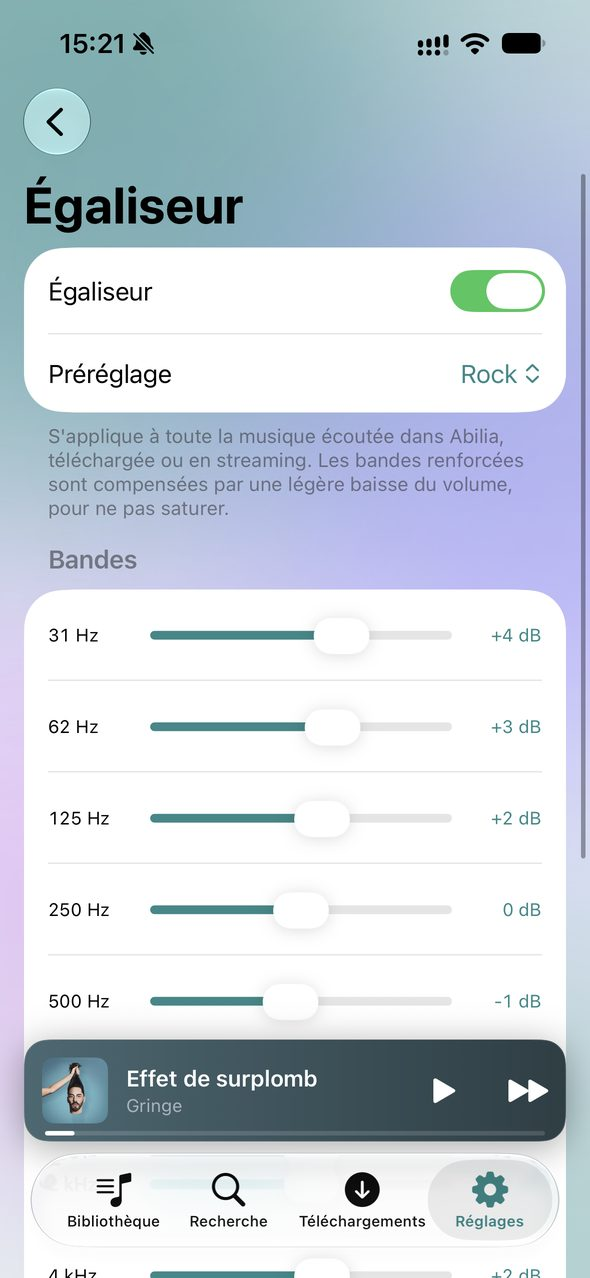
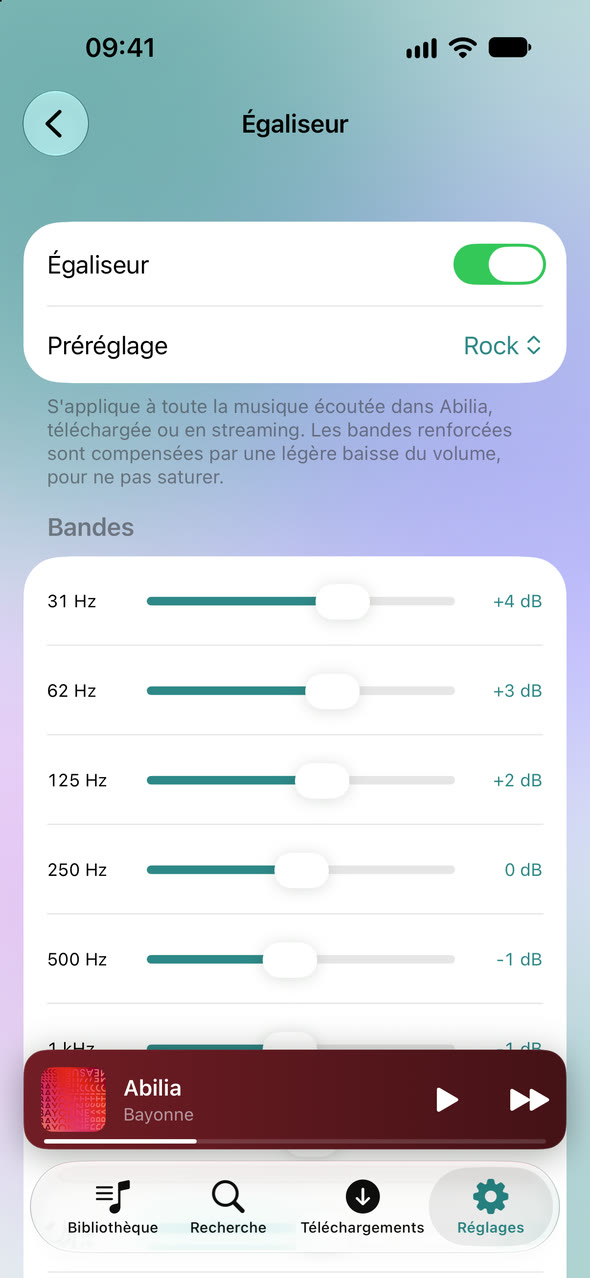
feat: captures de l'app en anglais sur la page anglaise
L'app est traduite : la page /en/ montre désormais les captures
anglaises (src/assets/screenshots/en/), la page française de nouvelles
captures françaises prises sur la même bibliothèque. Les sections les
prennent par screenshots(lang) ; APP_LANGUAGES contient 'en', donc la
mention « l'app est en français » disparaît de la page anglaise, comme
de la note de la politique de confidentialité. Le spectre animé du hero
est recalé sur la nouvelle capture En lecture (même mise en page dans
les deux langues).

diff --git a/src/i18n/ui.ts b/src/i18n/ui.ts
@@ -189,8 +189,8 @@ const fr = {
   'everywhere.watchList': 'Sur la montre',
   'screenshot.nowPlaying': 'Écran En lecture : pochette, spectre, format joué et commandes',
   'screenshot.library': 'Accueil de la bibliothèque : stations, mix par humeur et catégories',
-  'screenshot.downloads': 'Téléchargements : morceaux favoris gardés hors ligne',
-  'screenshot.settings': 'Réglages : Apple Watch et taille du cache',
+  'screenshot.downloads': 'Téléchargements : des albums gardés hors ligne',
+  'screenshot.settings': 'Réglages, rangés par thème',
   'screenshot.lyrics': 'Paroles synchronisées sous les commandes de lecture',
   'screenshot.equalizer': 'Égaliseur dix bandes avec le préréglage Rock',
   'screenshot.album': "Page d'un album aux couleurs de sa pochette",
@@ -394,8 +394,8 @@ const en: Record<UIKey, string> = {
   'everywhere.watchList': 'On the watch',
   'screenshot.nowPlaying': 'The Now Playing screen: artwork, spectrum, format being played and controls',
   'screenshot.library': 'The library home: stations, mood mixes and categories',
-  'screenshot.downloads': 'Downloads: favorite tracks kept offline',
-  'screenshot.settings': 'Settings: Apple Watch and cache size',
+  'screenshot.downloads': 'Downloads: albums kept offline',
+  'screenshot.settings': 'Settings, grouped by topic',
   'screenshot.lyrics': 'Synced lyrics beneath the playback controls',
   'screenshot.equalizer': 'Ten-band equalizer with the Rock preset',
   'screenshot.album': 'An album page in the colors of its artwork',
@@ -416,7 +416,7 @@ const en: Record<UIKey, string> = {
   'privacy.summary.yourServer': 'Your music stays on your server',
   'privacy.toc': 'On this page',
   'privacy.translationNote':
-    'This is a translation for your convenience; the French version is the reference. The app itself is in French for now.',
+    'This is a translation for your convenience; the French version is the reference.',
   'privacy.back': 'Back to home',
 };
 

diff --git a/src/assets/screenshots/index.ts b/src/assets/screenshots/index.ts
@@ -1,0 +1,50 @@
+// Captures de l'app dans la langue de la page : françaises ici, anglaises dans `en/`, sous le
+// même nom de fichier (copiées de `docs/screenshots/` et `docs/screenshots/en/` du dépôt de
+// l'app ; 590 × 1278).
+import type { ImageMetadata } from 'astro';
+import type { Lang } from '../../i18n/ui';
+
+import album from './album.jpg';
+import bibliotheque from './bibliotheque.jpg';
+import egaliseur from './egaliseur.jpg';
+import enLecture from './en-lecture.jpg';
+import paroles from './paroles.jpg';
+import telechargements from './telechargements.jpg';
+import enAlbum from './en/album.jpg';
+import enBibliotheque from './en/bibliotheque.jpg';
+import enEgaliseur from './en/egaliseur.jpg';
+import enEnLecture from './en/en-lecture.jpg';
+import enParoles from './en/paroles.jpg';
+import enTelechargements from './en/telechargements.jpg';
+
+export interface Screenshots {
+  album: ImageMetadata;
+  library: ImageMetadata;
+  equalizer: ImageMetadata;
+  nowPlaying: ImageMetadata;
+  lyrics: ImageMetadata;
+  downloads: ImageMetadata;
+}
+
+const shots: Record<Lang, Screenshots> = {
+  fr: {
+    album,
+    library: bibliotheque,
+    equalizer: egaliseur,
+    nowPlaying: enLecture,
+    lyrics: paroles,
+    downloads: telechargements,
+  },
+  en: {
+    album: enAlbum,
+    library: enBibliotheque,
+    equalizer: enEgaliseur,
+    nowPlaying: enEnLecture,
+    lyrics: enParoles,
+    downloads: enTelechargements,
+  },
+};
+
+export function screenshots(lang: Lang): Screenshots {
+  return shots[lang];
+}

diff --git a/src/config.ts b/src/config.ts
@@ -10,10 +10,11 @@ export const APP_STORE_URL: string | null = null;
 export const APP_STORE_ID: string | null = null;
 
 /**
- * Langues de l'interface de l'app. Une page dans une autre langue prévient ses visiteurs que l'app
- * (et donc les captures) est en français : ajouter `'en'` le jour où l'app est traduite.
+ * Langues de l'interface de l'app, qui ont chacune leurs captures (`src/assets/screenshots/`). Une
+ * page dans une autre langue prévient ses visiteurs que l'app (et donc les captures) est en
+ * français.
  */
-export const APP_LANGUAGES: readonly string[] = ['fr'];
+export const APP_LANGUAGES: readonly string[] = ['fr', 'en'];
 
 /** Site du projet Jellyfin, cité là où le site explique qu'il faut un serveur. */
 export const JELLYFIN_URL = 'https://jellyfin.org';

diff --git a/CLAUDE.md b/CLAUDE.md
@@ -12,5 +12,7 @@ l'accueil en fichiers.
 - Tout mouvement sous `prefers-reduced-motion: no-preference` ; rien de caché sans JavaScript.
 - Avant une PR : `npm run check` et `npm run build`, puis un rendu en clair, en sombre, à 390 px
   de large (aucun défilement horizontal) et avec les animations réduites.
-- Captures de l'app : `src/assets/screenshots/` (copiées de `docs/screenshots/` du dépôt de
-  l'app ; les remplacer là-bas aussi quand elles changent).
+- Captures de l'app : `src/assets/screenshots/` en français, `src/assets/screenshots/en/` en
+  anglais, sous les mêmes noms (copiées de `docs/screenshots/` et `docs/screenshots/en/` du dépôt
+  de l'app ; les remplacer là-bas aussi quand elles changent). Les sections les prennent par
+  `screenshots(lang)` (`src/assets/screenshots/index.ts`), jamais par un import direct.

diff --git a/docs/CONVENTIONS.md b/docs/CONVENTIONS.md
@@ -8,7 +8,8 @@ est un site **statique** Astro (aucun serveur, aucune dépendance côté navigat
 
 ```
 src/
-  assets/screenshots/   captures de l'app (590 × 1278), optimisées par astro:assets
+  assets/screenshots/   captures de l'app (590 × 1278), optimisées par astro:assets : en
+                        français, en anglais dans en/, servies par screenshots(lang) (index.ts)
   components/           briques partagées (Header, Footer, Section, PhoneFrame, AppIcon…)
   components/home/      l'accueil : Home.astro assemble Hero.astro puis sections/*.astro
   components/privacy/   la page Confidentialité (mise en page commune aux deux langues)
